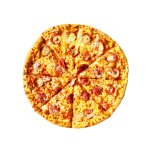
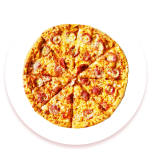
Adicionando imagens no fundo

diff --git a/src/assets/Components/Main/Main.sass b/src/assets/Components/Main/Main.sass
@@ -38,6 +38,7 @@ main
 						position: absolute
 						top: 0
 						transform: translateY(-50%)
+
 						.img-coracao
 							position: absolute
 							top: 50%
@@ -81,10 +82,16 @@ main
 				text-align: center
 
 			&_img
+				position: relative
 				@include mixins.tela-mobile(900px)
 					display: none
 
+				.img-flutuante
+					top: 30px
+					left: -50px
+
 			&_conteudo
+				position: relative
 				max-width: 458px
 
 				.titulo
@@ -93,3 +100,10 @@ main
 				p
 					@include mixins.texto(var.$font-text, var.$font-regular, var.$gray-200)
 					margin: 24px 0 36px
+
+				.img-flutuante
+					right: 0px
+					bottom: -200px
+					@include mixins.tela-mobile(900px)
+						right: -100px
+						bottom: -120px

diff --git a/src/assets/Components/Main/SobreNos/Sobre.jsx b/src/assets/Components/Main/SobreNos/Sobre.jsx
@@ -7,6 +7,7 @@ function Sobre(){
 				<div className="content-sobre">
 					<div className="content-sobre_img">
 						<img src="src/assets/img/restaurant.png" alt="" />
+						<img className="img-flutuante" src="src/assets/img/img1.png" alt="" />
 					</div>
 					<div className="content-sobre_conteudo">
 						<h2 className="titulo">
@@ -24,6 +25,10 @@ function Sobre(){
 							uis fermentum. 
 						</p>
 						<button>Ler mais</button>
+
+						<div className="img-flutuante">
+							<img className="img" src="src/assets/img/img3.png" alt="" />
+						</div>
 					</div>
 				</div>
 			</div>

diff --git a/src/assets/styles/mixins.sass b/src/assets/styles/mixins.sass
@@ -31,6 +31,12 @@
 		letter-spacing: 1px
 
 
+@mixin girar
+	@keyframes girar
+		from
+			transform: rotate(360deg)
+
+
 @mixin tela-mobile($largura)
 	@media(max-width: $largura)
 		@content

diff --git a/src/App.sass b/src/App.sass
@@ -19,3 +19,6 @@ footer
         color: var.$red
         text-decoration: none
         text-transform: uppercase
+
+.img-flutuante
+    position: absolute
